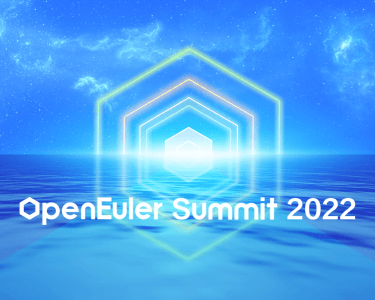
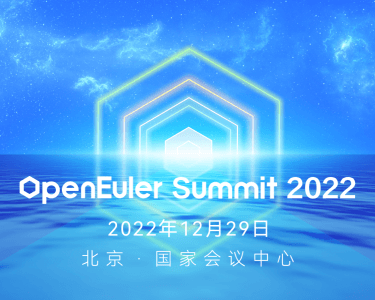
fix:峰会banner时间添加，暗黑图片对比度调整，浮窗取消

diff --git a/app/.vitepress/src/components/AppFooter.vue b/app/.vitepress/src/components/AppFooter.vue
@@ -205,6 +205,9 @@ function clickClose() {
 function clickWindow() {
   isShow.value = false;
 }
+
+// 控制issue浮窗在峰会页面不显示
+const isFloShow = computed(() => !router.route.path.includes('summit-list'));
 </script>
 
 <template>
@@ -296,7 +299,7 @@ function clickWindow() {
         </div>
       </AppContent>
     </div>
-    <div v-show="lang === 'zh'" class="quick-issue">
+    <div v-show="lang === 'zh' && isFloShow" class="quick-issue">
       <a :href="quickIssueUrl" target="_blank">
         <img
           v-show="useCommon().theme === 'light'"
@@ -310,7 +313,10 @@ function clickWindow() {
         />
       </a>
     </div>
-    <div v-show="lang === 'zh' && isShow" class="investigation quick-issue">
+    <div
+      v-show="lang === 'zh' && isShow && isFloShow"
+      class="investigation quick-issue"
+    >
       <a href="https://huaweicompute.wjx.cn/vm/QVCXm3l.aspx# " target="_blank">
         <img
           v-show="useCommon().theme === 'light'"

diff --git a/app/.vitepress/src/views/summit/TheSummit.vue b/app/.vitepress/src/views/summit/TheSummit.vue
@@ -58,6 +58,9 @@ const bannerInfo = {
   </AppContext>
 </template>
 <style scoped lang="scss">
+.dark img {
+  filter: brightness(0.8) grayscale(0.2) contrast(1.2);
+}
 .detail {
   font-size: var(--o-font-size-h6);
   line-height: var(--o-line-height-h6);

diff --git a/app/.vitepress/src/views/summit/components/SummitBanner.vue b/app/.vitepress/src/views/summit/components/SummitBanner.vue
@@ -74,6 +74,9 @@ function clickButton(link: string) {
 </template>
 
 <style lang="scss" scoped>
+.dark .summit-banner {
+  filter: brightness(0.8) grayscale(0.2) contrast(1.2);
+}
 .summit-banner {
   height: 380px;
   background: no-repeat center/cover;

diff --git a/app/zh/interaction/summit-list/summit2022/index.md b/app/zh/interaction/summit-list/summit2022/index.md
@@ -1,3 +1,6 @@
+---
+title: openEuler Summit 2022
+---
 <script setup lang="ts">
   import TheSummit from '@/views/summit/TheSummit.vue'
 </script>
